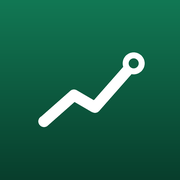
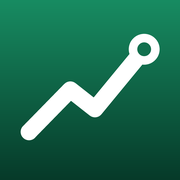
Ícone maior
Claude-Session: https://claude.ai/code/session_01TuzoK5KeBQ2bgGbpgufviu

Changed region(s): [[0.1111, 0.1667, 0.8889, 0.8056]]

diff --git a/index.html b/index.html
@@ -12,8 +12,8 @@
 <meta name="mobile-web-app-capable" content="yes">
 <meta name="apple-mobile-web-app-status-bar-style" content="default">
 <meta name="apple-mobile-web-app-title" content="Caderneta">
-<link rel="apple-touch-icon" href="icons/icon-180.png?v=4">
-<link rel="icon" href="icons/icon-192.png?v=4">
+<link rel="apple-touch-icon" sizes="180x180" href="icons/icon-180.png?v=6">
+<link rel="icon" href="icons/icon-192.png?v=6">
 <link rel="manifest" href="manifest.webmanifest">
 <link rel="stylesheet" href="style.css?v=5">
 </head>

diff --git a/sw.js b/sw.js
@@ -1,4 +1,4 @@
-const CACHE = "caderneta-v5";
+const CACHE = "caderneta-v6";
 const SHELL = ["./", "index.html", "style.css", "app.js", "manifest.webmanifest", "icons/icon-180.png", "icons/icon-192.png"];
 
 self.addEventListener("install", (e) => {
